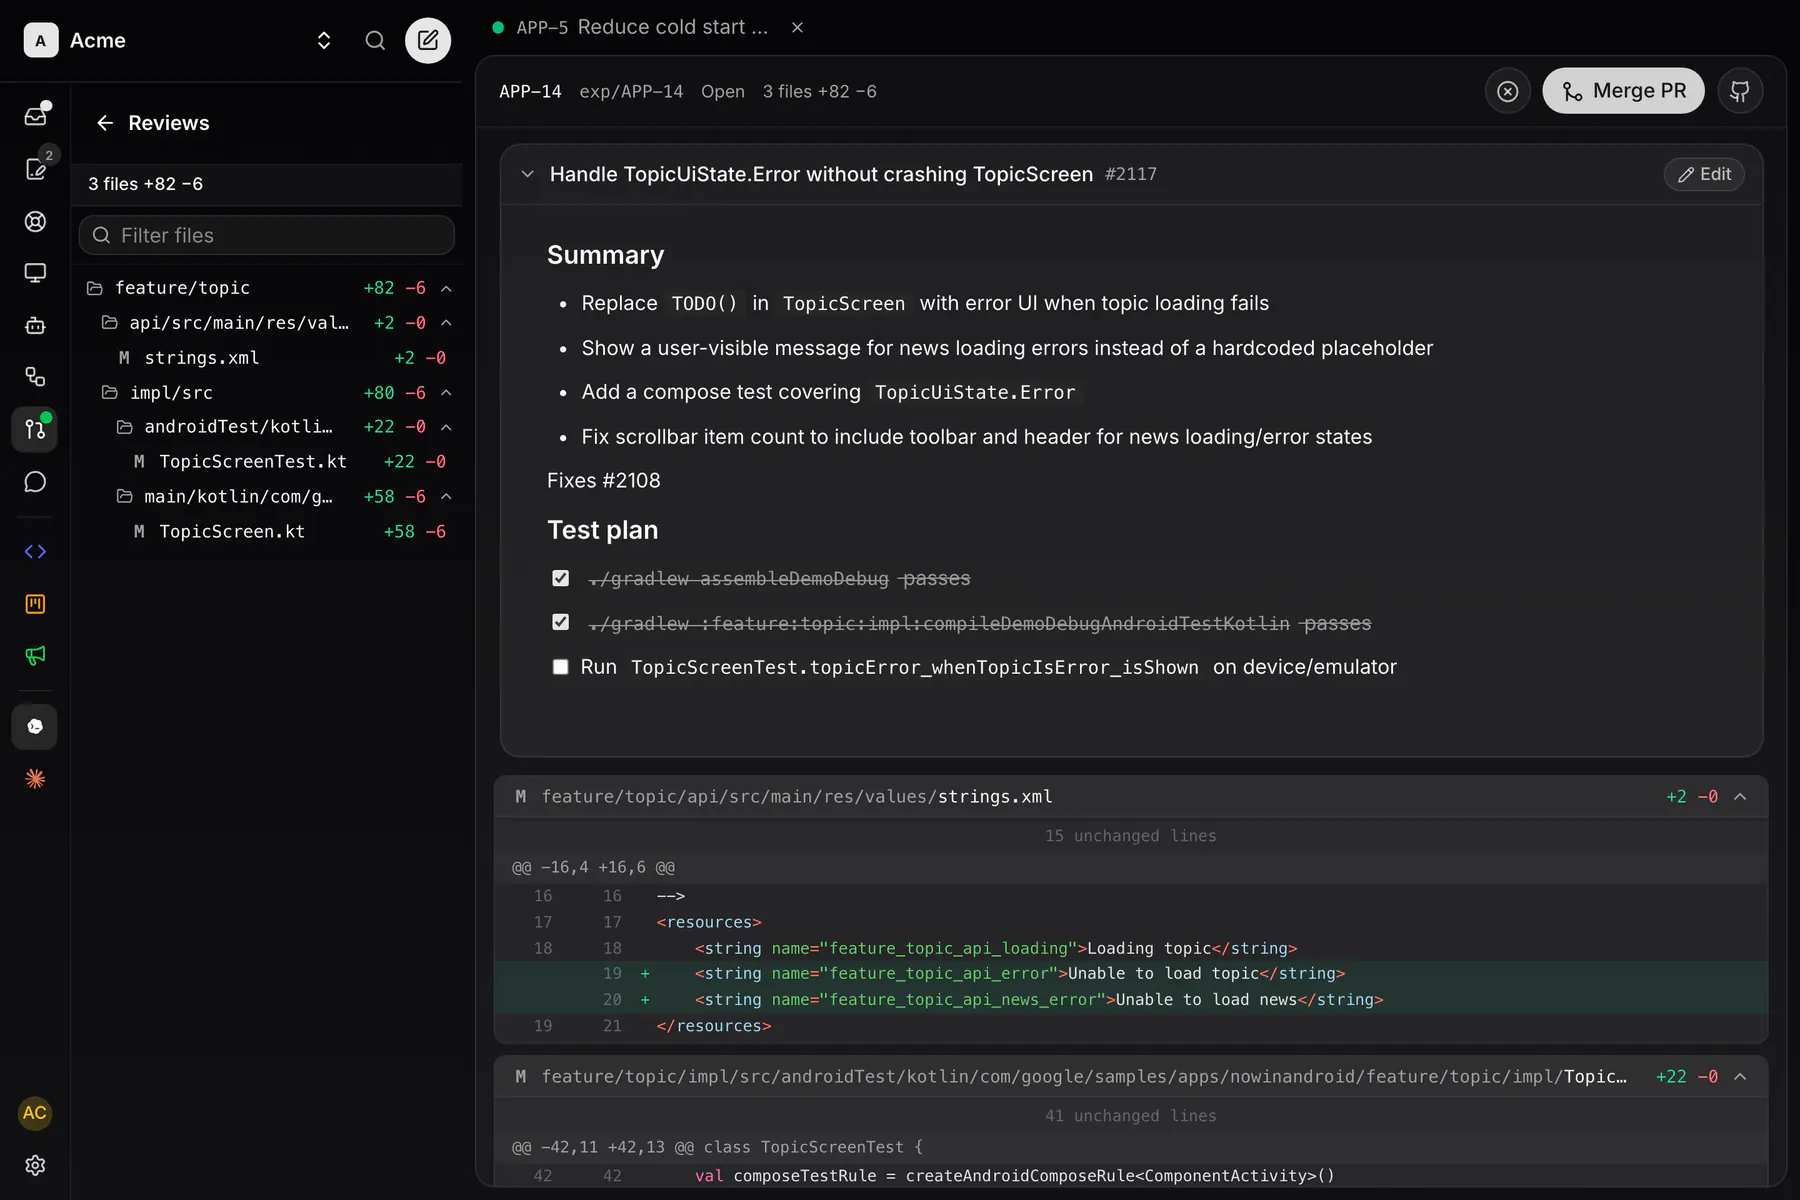
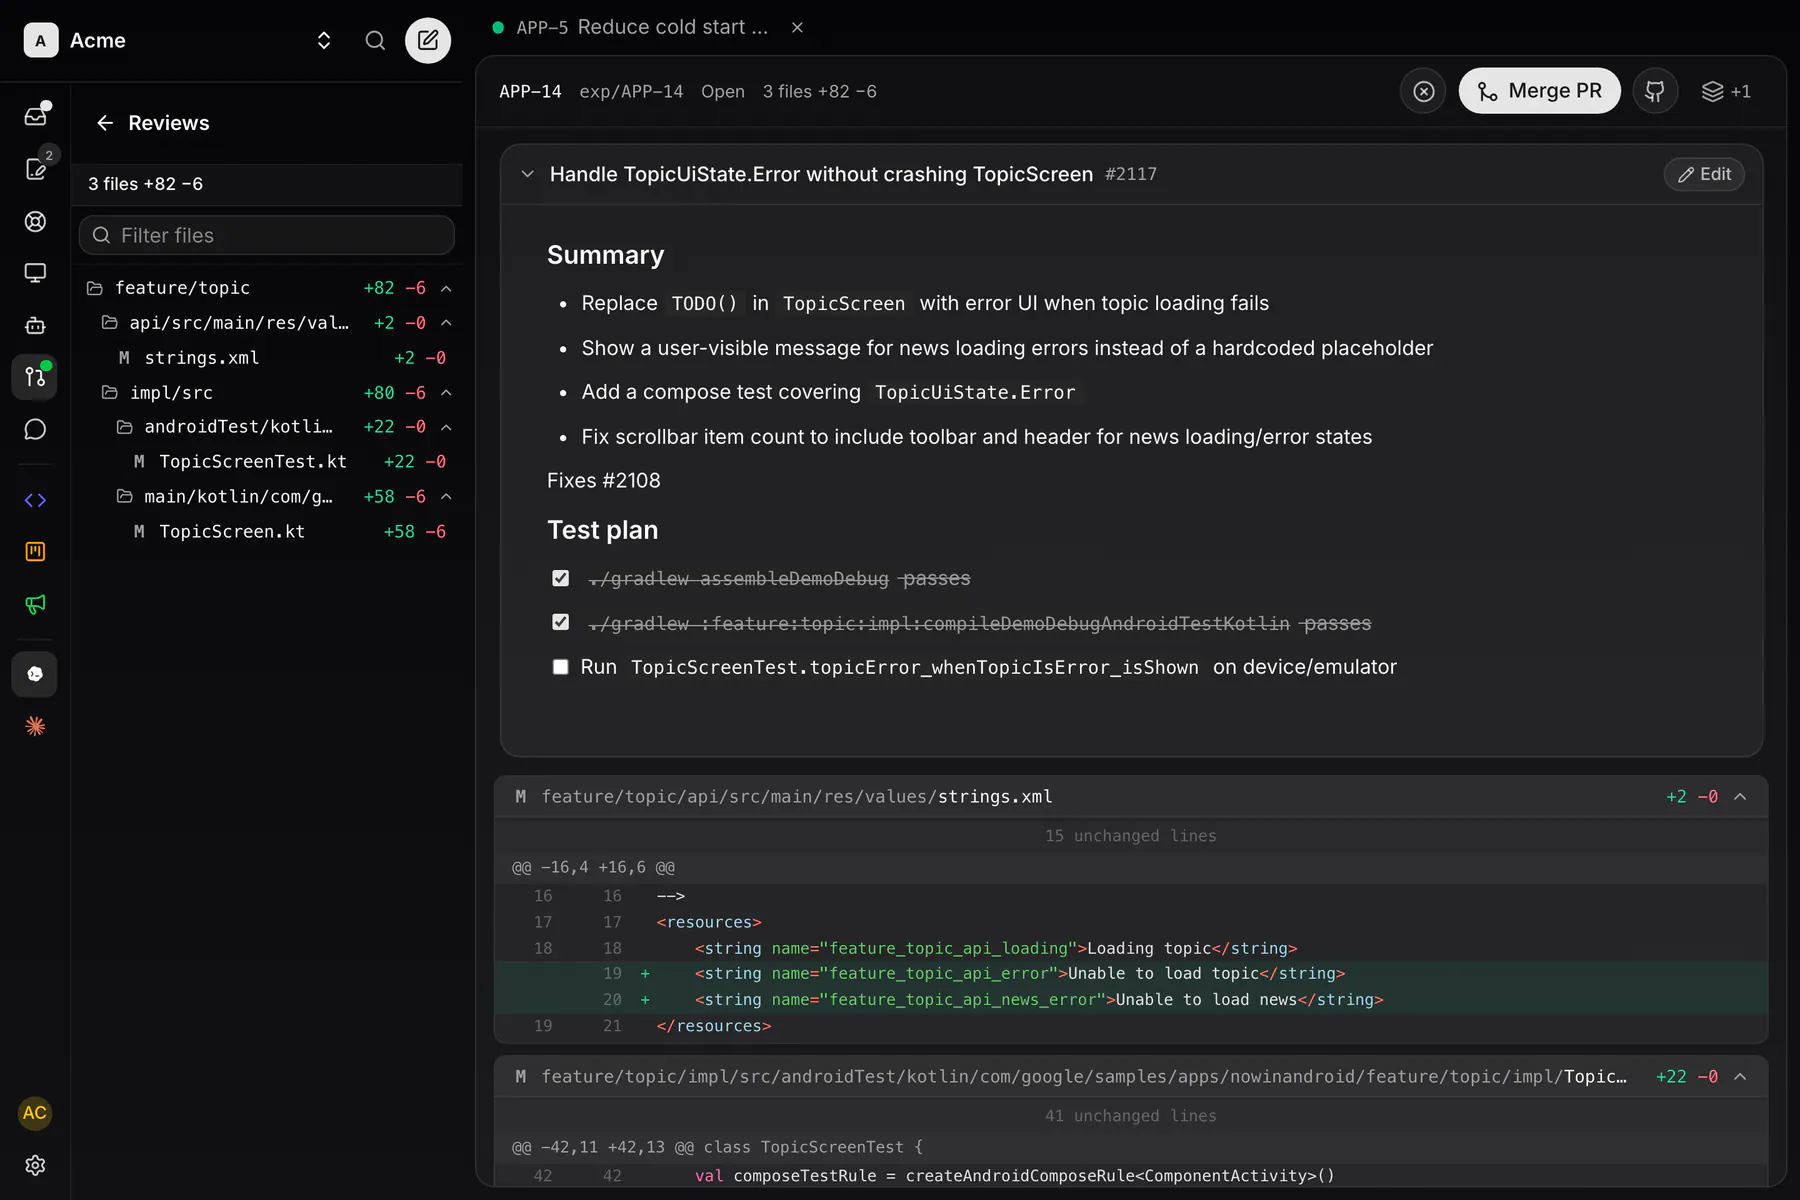
SLOP-3: the demo seed stacks APP-15 on APP-14; refreshed review shots show the Related work badge

Changed region(s): [[0.7778, 0.0308, 0.9956, 0.0925], [0.0, 0.2775, 0.0311, 0.4625], [0.0, 0.4933, 0.0311, 0.6475]]

diff --git a/apps/web/scripts/seed-screenshots.ts b/apps/web/scripts/seed-screenshots.ts
@@ -530,6 +530,9 @@ async function main() {
     pr?: `open` | `merged`
     /** Link this issue to REVIEW_PR instead of a fictional acme PR. */
     realPr?: boolean
+    /** SLOP-3: this PR is based on APP-<n>'s open PR branch (a stacked PR),
+     *  so the Related work badge shows a stack on both. */
+    stackedOn?: number
   }> = [
     {
       title: `Ship onboarding flow v2`,
@@ -686,6 +689,7 @@ async function main() {
       labels: [`Feature`],
       createdDaysAgo: 1,
       pr: `open`,
+      stackedOn: 14,
     },
     {
       title: `Fix flaky scroll restore on the issue list`,
@@ -744,6 +748,9 @@ async function main() {
               prNumber: spec.realPr ? REVIEW_PR_NUMBER : 40 + i,
               prState: spec.pr,
               branch: `exp/APP-${i + 1}`,
+              prBaseBranch: spec.stackedOn
+                ? `exp/APP-${spec.stackedOn}`
+                : undefined,
               prMergedAt: spec.pr === `merged` ? daysAgo(1) : undefined,
             }
           : {}),
